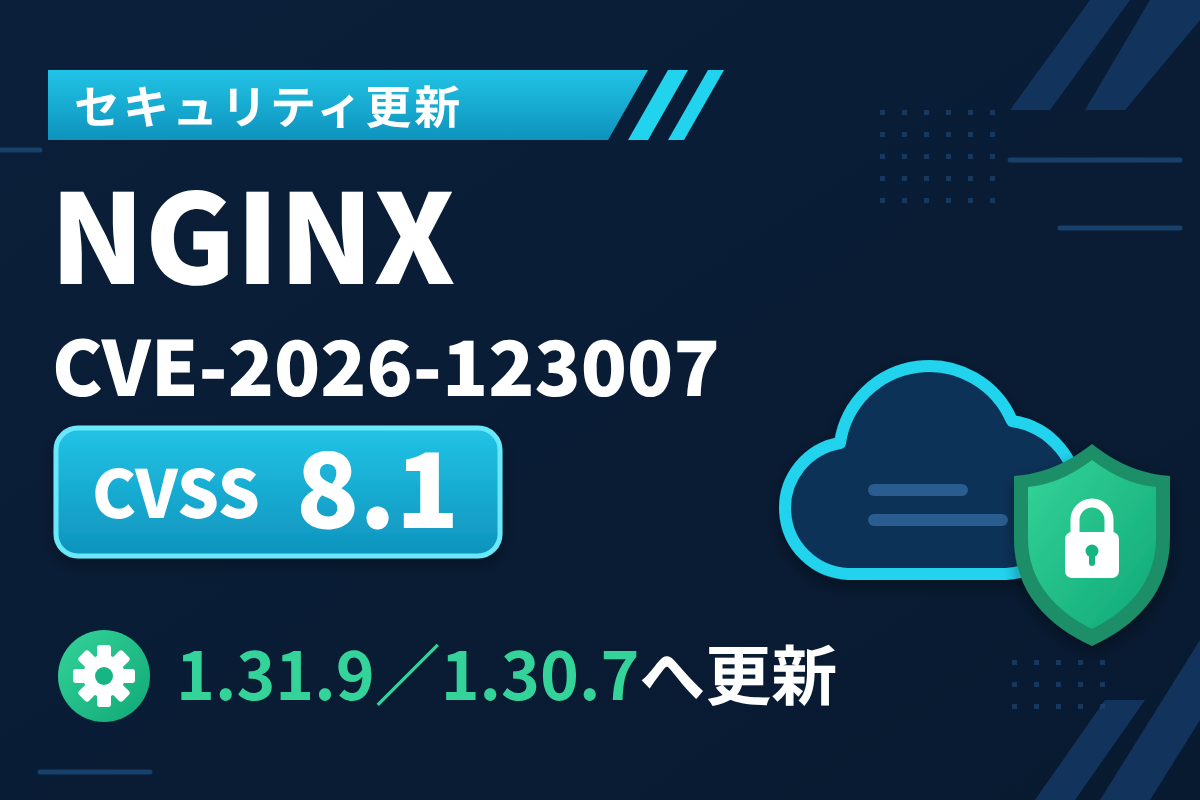
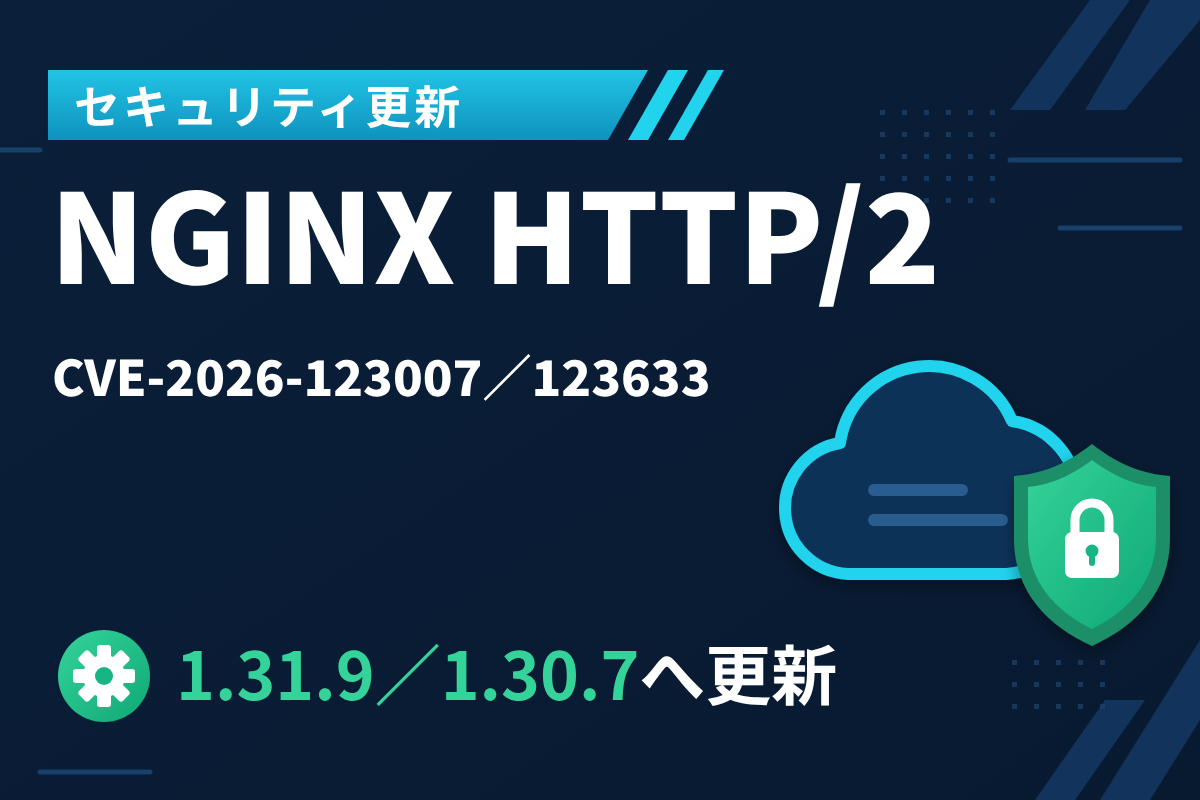
Add CVE-2026-123633 to NGINX HTTP/2 article (No.342) and regenerate eyecatch
User-approved update: post 9657 now covers CVE-2026-123007 and
CVE-2026-123633 (HTTP/2 use-after-free) as co-main topics. Title, FAQ,
sources and ledger row updated; slug and URL unchanged. Eyecatch
re-rendered with both CVE IDs and replaced via --force-image-upload.

Claude-Session: https://claude.ai/code/session_012Shh4jfpW2DbSwP5pzv7WL

Changed region(s): [[0.0308, 0.5312, 0.4317, 0.7188], [0.0308, 0.4062, 0.6167, 0.5], [0.4008, 0.2188, 0.7708, 0.4062]]

diff --git a/projects/cybernote-security-news/articles/nginx-cve-2026-123007-http2-memory-corruption-update.md b/projects/cybernote-security-news/articles/nginx-cve-2026-123007-http2-memory-corruption-update.md
@@ -1,18 +1,21 @@
 ---
-title: "【緊急】NGINXのHTTP/2処理にCVE-2026-123007｜認証不要でコード実行の恐れ、1.31.9／1.30.7へ更新を"
+title: "【緊急】NGINXのHTTP/2にCVE-2026-123007とCVE-2026-123633｜認証不要でコード実行の恐れ、1.31.9／1.30.7へ更新を"
 slug: "nginx-cve-2026-123007-http2-memory-corruption-update"
 date: "2026-11-19"
+updated: "2026-11-19"
 author: "CyberNote編集部"
-description: "NGINXのCVE-2026-123007を解説。HTTP/2のフロー制御で起きるメモリ破壊で、認証不要のコード実行に至る恐れがあります。対象版、修正版、HTTP/2の無効化、確認手順を整理します。"
-answer: "NGINXのHTTP/2処理に、認証なしでコードを実行される恐れがあるCVE-2026-123007が見つかりました。F5とnginx.orgは2026年11月18日に修正版の1.31.9と1.30.7を公開しています。HTTP/2を有効にしている場合は、更新するか、更新まではHTTP/2を無効にしてください。"
+description: "NGINXのHTTP/2処理に見つかったCVE-2026-123007とCVE-2026-123633を解説。認証不要のコード実行に至る恐れがあります。対象版、修正版、発生条件、HTTP/2の無効化、確認手順を整理します。"
+answer: "NGINXのHTTP/2処理に、認証なしでコードを実行される恐れがある脆弱性CVE-2026-123007とCVE-2026-123633が見つかりました。F5とnginx.orgは2026年11月18日に、両方を直した修正版の1.31.9と1.30.7を公開しています。HTTP/2を有効にしている場合は更新し、すぐに更新できなければHTTP/2を無効にしてください。"
 cve: "CVE-2026-123007, CVE-2026-123633"
 faq:
-  - q: "CVE-2026-123007はどのような脆弱性ですか？"
-    a: "NGINXのHTTP/2のフロー制御で起きるメモリ破壊です。HTTP/2を有効にしたサーバーに細工した通信を送られると、認証なしでコード実行に至る恐れがあるとCERT-EUなどが報告しています。"
+  - q: "CVE-2026-123007とCVE-2026-123633はどう違いますか？"
+    a: "CVE-2026-123007はHTTP/2のフロー制御で起きるメモリ破壊で、HTTP/2を有効にしていれば対象になります。CVE-2026-123633は、処理中のHTTP/2接続が誤って解放される解放後メモリ使用で、主にリバースプロキシとして使っている構成が対象です。"
+  - q: "CVE-2026-123633はどのような環境で起きやすいですか？"
+    a: "HTTP/2を有効にし、NGINXがバックエンドへ通信を中継している構成です。同時接続の空きが少なくなったときに、使用中の接続まで閉じられてしまうことが原因とされています。修正版の1.31.9と1.30.7で直っています。"
   - q: "すでに攻撃に使われていますか？"
-    a: "CERT-EUは、研究者による実証はあるものの、実際の攻撃は報告されていないとしています。CISAのKEVへの掲載も、確認した範囲では見つかっていません。ただし状況は変わる可能性があります。"
+    a: "確認した範囲では、どちらも実際の攻撃は報告されていません。研究者は実証用のコードを作成していますが、公開しない方針を示しています。CISAのKEVへの掲載も見つかっていませんが、状況は変わる可能性があります。"
   - q: "すぐに更新できない場合はどうすればよいですか？"
-    a: "更新までの暫定対策として、HTTP/2を無効にする方法が複数の機関から示されています。設定のlistenからhttp2を外すか、http2 offを指定します。更新後に再び有効にできます。"
+    a: "更新までの暫定対策として、HTTP/2を無効にする方法が示されています。設定のlistenからhttp2を外すか、http2 offを指定します。2つの脆弱性はどちらもHTTP/2が入口のため、この方法で両方の入口を閉じられます。"
 sources:
   - title: "nginx security advisories"
     url: "https://nginx.org/en/security_advisories.html"
@@ -26,11 +29,19 @@ sources:
   - title: "CVE Record: CVE-2026-123007"
     url: "https://www.cve.org/CVERecord?id=CVE-2026-123007"
     publisher: "CVE Program"
+  - title: "CVE Record: CVE-2026-123633"
+    url: "https://www.cve.org/CVERecord?id=CVE-2026-123633"
+    publisher: "CVE Program"
+  - title: "Unauthenticated Remote Code Execution in NGINX: CVE-2026-123633 and CVE-2026-123007"
+    url: "https://www.wiz.io/blog/nginx-http2-rce-vulnerabilities"
+    publisher: "Wiz"
 ---
 
-# 【緊急】NGINXのHTTP/2処理にCVE-2026-123007｜認証不要でコード実行の恐れ、1.31.9／1.30.7へ更新を
+# 【緊急】NGINXのHTTP/2にCVE-2026-123007とCVE-2026-123633｜認証不要でコード実行の恐れ、1.31.9／1.30.7へ更新を
 
-Webサーバー「NGINX」のHTTP/2処理に、メモリ破壊の脆弱性CVE-2026-123007が見つかりました。2026年11月18日に[F5](https://www.f5.com/)とnginx.orgが修正版の1.31.9と1.30.7を公開し、CERT-EUは、認証のない攻撃者が細工した通信でコード実行に至る恐れがあると伝えています。実際の攻撃は報告されていませんが、研究者による実証が示されています。HTTP/2を有効にしているサーバーの管理者は、まず自分の環境が対象かどうかを版と設定の両面から確認し、そのうえで修正版への更新を急いでください。
+Webサーバー「NGINX」のHTTP/2処理に、認証なしでコード実行に至る恐れがある脆弱性CVE-2026-123007とCVE-2026-123633が見つかりました。[F5](https://www.f5.com/)とnginx.orgは2026年11月18日に、両方を直した修正版1.31.9と1.30.7を公開しています。
+
+実際の攻撃は報告されていませんが、研究者による実証が示されています。HTTP/2を使うサーバーの管理者は、版と設定の両面から対象かを確かめ、更新を急いでください。（11月19日更新：CVE-2026-123633の詳細を追記）
 
 <!-- wp:group {"className":"is-style-information-box","layout":{"type":"constrained"}} -->
 <div class="wp-block-group is-style-information-box"><!-- wp:paragraph -->
@@ -39,75 +50,69 @@ Webサーバー「NGINX」のHTTP/2処理に、メモリ破壊の脆弱性CVE-20
 <!-- wp:cocoon-blocks/embed-blogcard {"url":"https://nginx.org/en/security_advisories.html"} /--></div>
 <!-- /wp:group -->
 
-## 脆弱性の概要
+## 2つの脆弱性の概要
 
-CVE-2026-123007は、NGINXのHTTP/2モジュールで、フロー制御の処理中にメモリが壊れる問題です。nginx.orgは深刻度を「major」として掲載し、広い範囲の版が影響を受けるとしています。
+今回修正された2件は、どちらもNGINXのHTTP/2モジュールにあるメモリの扱いの誤りで、認証なしで悪用される恐れがあります。入口は同じHTTP/2ですが、起きる仕組みと条件が異なるため、分けて確認することが大切です。
 
-次の表は、nginx.orgの公告を軸に、CERT-EUの報告で補ったものです。F5の公告ページとCVEレコード原本は、表示の都合で本文を取得できませんでした。そのため、CVSSの評価元の詳細やNGINX Plusの版は未確認としています。確認できなかった項目は断定せず、ご自身の環境の版と照らし合わせて確かめてください。
+次の表は、nginx.orgの公告を軸に、CERT-EUの報告と、発見者の一社であるWizの解説で補ったものです。F5の公告ページとCVEレコード原本は、表示の都合で本文を取得できませんでした。そのため、CVSSの評価元の詳細など確認できなかった項目は断定せず、出典を添えて記載しています。ご自身の版と照らし合わせてください。
 
-| 項目 | 内容 |
-|---|---|
-| CVE | CVE-2026-123007 |
-| 種類 | HTTP/2のフロー制御におけるメモリ破壊 |
-| 対象製品 | NGINX Open Source（NGINX Plusも対象とされるが版は未確認） |
-| 影響を受ける版 | 1.9.5から1.31.8まで（安定版1.30.6以前を含む） |
-| 修正版 | 1.31.9（メインライン）、1.30.7（安定版） |
-| CVSS | 8.1（CERT-EUの報告）。F5が付与した値としてv4.0で9.2とする報告もあるが、原本は未確認 |
-| 回避策 | HTTP/2の無効化 |
-| 悪用状況 | 実際の攻撃は報告なし。KEV掲載は未確認 |
+| 項目 | CVE-2026-123007 | CVE-2026-123633 |
+|---|---|---|
+| 種類 | HTTP/2のフロー制御におけるメモリ破壊 | HTTP/2接続の解放後メモリ使用 |
+| 主な条件 | HTTP/2が有効 | HTTP/2が有効で、リバースプロキシとして中継している |
+| 影響を受ける版 | 1.9.5から1.31.8まで | 1.19.7から1.31.8まで |
+| 修正版 | 1.31.9、1.30.7 | 1.31.9、1.30.7 |
+| CVSS | 8.1（CERT-EU）。v4.0で9.2とする報告あり | v4.0で9.2（WizによるF5の公表値の紹介） |
+| 悪用状況 | 実際の攻撃は報告なし | 実際の攻撃は報告なし |
 
-攻撃が成立するための前提は、HTTP/2が有効なことです。HTTP/2を使っていない設定では、この脆弱性の入口は開いていません。ただし「listen 443 ssl http2」などの指定で、HTTP/2を有効にしている構成は多く見られます。自分のサーバーが条件を満たすかを、まず設定ファイルで確かめてください。
+影響を受ける版の範囲は少し異なりますが、修正版は共通です。1.31.9か1.30.7へ更新すれば、2件を一度に解消できます。NGINX Plusについて、Wizは、CVE-2026-123633の影響がR33以降に及び、37.0.7.1と37.2.0.1で修正されたと伝えています。Plusの利用者は、F5の案内で自分の版を確かめてください。
 
-## HTTP/2のフロー制御とは
+## CVE-2026-123007：フロー制御のメモリ破壊
 
-HTTP/2は、1本の接続で複数のやり取りを同時に進める仕組みです。フロー制御は、受け手が処理しきれない量のデータが一度に流れ込まないよう、送り手の送信量を調整する機能で、通信の安定を支える土台にあたります。
+CVE-2026-123007は、HTTP/2のフロー制御の処理中にメモリが壊れる問題です。HTTP/2を有効にしていれば、静的なファイルを配るだけのサーバーでも対象になり、2件のうち影響を受ける構成が広いほうです。
 
-今回の問題は、この調整の処理でメモリが正しく扱われないことにあります。報告によると、細工した通信を送ると、サーバーのメモリが壊れ、場合によっては攻撃者の命令が実行されます。
+フロー制御は、受け手が処理しきれない量のデータが一度に流れ込まないよう、送り手の送信量を調整する機能です。報告によると、細工した通信を送ると、この調整の処理でメモリが壊れ、攻撃者の命令が実行される恐れがあります。
+
+## CVE-2026-123633：処理中の接続を誤って解放
+
+CVE-2026-123633は、使用中のHTTP/2接続が、閉じてよい接続として扱われてしまう問題です。主に、NGINXがバックエンドへ通信を中継する構成で起きるとされています。条件は限られますが、NGINXの代表的な使い方に重なります。
+
+Wizの解説によると、NGINXは同時接続の空きが足りなくなると、待機中の接続を閉じて空きを作ります。ところが、要求の処理を始めた接続が待機中の一覧に残ったままになり、空き不足のときに閉じられてメモリが解放されます。その後も処理が続くため、解放済みのメモリを使ってしまいます。
+
+Wizは、悪用にはメモリの配置を読み取るなど高度な手順が要り、容易ではないとしています。一方で、プロキシとして使う構成では悪用の可能性が高いとも述べています。
 
 ## 影響を受ける環境の見分け方
 
-まず、サーバー上で「nginx -v」を実行し、版を確認します。1.31.8以前、または安定版の1.30.6以前であれば、公告上は影響範囲です。1.9.5より前の版は、公告に記載がなく、扱いは不明です。
+まず、サーバー上で「nginx -v」を実行し、版を確認します。1.31.8以前、または安定版の1.30.6以前であれば、公告上は影響範囲です。1.19.7より前の版はCVE-2026-123633の対象外ですが、CVE-2026-123007は1.9.5から対象です。
 
-次に、「nginx -T」で設定全体を出力し、listenの行にhttp2が含まれていないか、または「http2 on」が指定されていないかを見ます。複数のサーバーブロックがある場合は、すべてを確認します。
+次に、「nginx -T」で設定全体を出力し、listenの行にhttp2が含まれていないか、または「http2 on」が指定されていないかを見ます。あわせてproxy_passがあれば、CVE-2026-123633の条件にも当てはまります。
 
-## 悪用の状況と、確認できていないこと
+## 悪用の状況と異常の確認
 
-CERT-EUは、研究者が脆弱性の実証に成功した一方で、実際の攻撃は報告されていないとしています。実証したセキュリティ企業は、攻撃用のコードを公開しない方針だと伝えられていますが、情報は変わり得ます。
+確認した範囲では、2件とも実際の攻撃は報告されていません。Wizは実証用のコードを作成したものの、現時点では公開しない方針です。CISAのKEVへの掲載も見つかっていませんが、状況は変わり得るため、公式の更新を随時確認してください。
 
-CISAのKEV（既知の悪用された脆弱性カタログ）への掲載は、確認した範囲では見つかっていません。F5の公告本文、およびCVSSの評価元の詳細は取得できず、被害の規模についても、確認できた情報に記載がありません。状況は変わる可能性があるため、公式の更新を随時確認してください。
-
-## 同時に修正された脆弱性
-
-nginx.orgは、同じ1.31.9と1.30.7で、CVE-2026-123633を含む複数の脆弱性も修正したと掲載しています。CVE-2026-123633はHTTP/2での解放後メモリ使用です。
-
-nginx.orgでの深刻度は「medium」で、評価が分かれているため、本記事ではCVE-2026-123007を中心に扱います。修正版へ更新すれば、同じ版で一度に対処できます。
+Wizは、CVE-2026-123633に固有の痕跡は示していません。エラーログにワーカーの異常終了が繰り返し記録されていないか、子プロセスが想定外のコマンドを起動していないかを点検してください。
 
 ## 修正版への更新手順
 
 Open Sourceは、安定版なら1.30.7、メインラインなら1.31.9へ更新します。OSの配布パッケージを使っている場合は、ディストリビューションが修正を取り込んだ版が出ているかを確認し、出ていれば適用します。
 
-更新後は「nginx -t」で設定の構文を確かめ、プロセスを再読み込みし、「nginx -v」で版が変わったことを確認してください。多数の拠点に置いている場合は、外部公開しているものから順に進めます。
+更新後は「nginx -t」で設定の構文を確かめ、プロセスを再読み込みし、「nginx -v」で版が変わったことを確認してください。外部公開しているものから順に進めます。
 
 [10月のNGINXの脆弱性](https://www.cybernote.click/2026/10/20/nginx-cve-2026-15176-93479-97205-heap-overflow-update/)の更新が未実施でも、今回の修正版でまとめて解消できます。
 
 ## 更新できない場合の暫定対策
 
-更新まで時間がかかる場合は、HTTP/2を一時的に無効にする方法が、CERT-EUなど複数の機関から示されています。listenの行からhttp2を外すか、1.25.1以降なら「http2 off」を指定します。
+更新まで時間がかかる場合は、HTTP/2を一時的に無効にする方法が、CERT-EUやWizから示されています。listenの行からhttp2を外すか、1.25.1以降なら「http2 off」を指定します。
 
-無効にすると、HTTP/1.1での通信になり、速度が落ちる場合があります。更新後に再び有効にしてください。暫定対策は、更新の代わりにはなりません。
-
-## 異常の有無を確認する方法
-
-更新の前後で、NGINXのワーカープロセスが異常終了していないかを確認します。エラーログに、ワーカーの終了（シグナルによる停止）が繰り返し記録されていれば、攻撃や不具合の兆候の可能性があり、早めの調査が必要です。
-
-あわせて、NGINXの子プロセスが想定外のコマンドを起動していないか、不審な外向き通信がないかも点検してください。
+2件とも入口はHTTP/2のため、この方法で両方を防げます。速度が落ちる場合があり、更新の代わりにはならないため、更新後に元へ戻してください。
 
 ## 国内の利用者・企業への影響
 
-NGINXは、Webサイト、ECサイト、APIの入口、Kubernetesのイングレスなど、国内でも幅広く使われています。自社で直接運用していなくても、利用中の製品やサービスに組み込まれている場合があります。
+NGINXは、Webサイト、ECサイト、APIの入口、Kubernetesのイングレスなど、国内でも幅広く使われています。中継役として置かれることが多く、CVE-2026-123633の条件に当てはまる構成も少なくありません。
 
-利用しているアプライアンスやコンテナイメージが、内部でNGINXを使っていないかを、提供元の案内で確認してください。HTTP/2では[Node.jsの11月のリリース](https://www.cybernote.click/2026/11/15/nodejs-november-2026-security-release-cve-2026-123863-http2-dos/)や[HTTP2Shell](https://www.cybernote.click/2026/10/24/http2shell-cve-2026-111497-brotli/)も続いており、基盤の棚卸しが役立ちます。
+NGINXを組み込んだAPIゲートウェイやアプライアンス、コンテナイメージも、提供元の案内で確認してください。HTTP/2では[Node.jsの11月のリリース](https://www.cybernote.click/2026/11/15/nodejs-november-2026-security-release-cve-2026-123863-http2-dos/)や[HTTP2Shell](https://www.cybernote.click/2026/10/24/http2shell-cve-2026-111497-brotli/)も続いており、基盤の棚卸しが役立ちます。
 
 ## まとめ
 
-NGINXのCVE-2026-123007は、HTTP/2のフロー制御で起きるメモリ破壊の脆弱性です。nginx.orgは2026年11月18日に、修正版の1.31.9と1.30.7を公開しました。CERT-EUは、CVSSを8.1とし、実際の攻撃は報告されていないとしています。管理者は、版とHTTP/2の設定を確認し、更新するか、更新まではHTTP/2を無効にしてください。更新後は版の反映とエラーログを点検し、利用中のアプライアンスやコンテナ内のNGINXも見落とさず、提供元の案内で確かめましょう。
+NGINXのHTTP/2処理に、CVE-2026-123007とCVE-2026-123633という2件の脆弱性が見つかりました。前者はHTTP/2を有効にしていれば対象となり、後者は主にリバースプロキシの構成で、使用中の接続が誤って解放されます。nginx.orgは11月18日に修正版の1.31.9と1.30.7を公開し、2件とも実際の攻撃は報告されていません。管理者は版と設定を確認し、更新するか、更新まではHTTP/2を無効にしてください。更新後は版の反映とエラーログを点検し、NGINXを組み込んだ製品も提供元の案内で確かめましょう。
